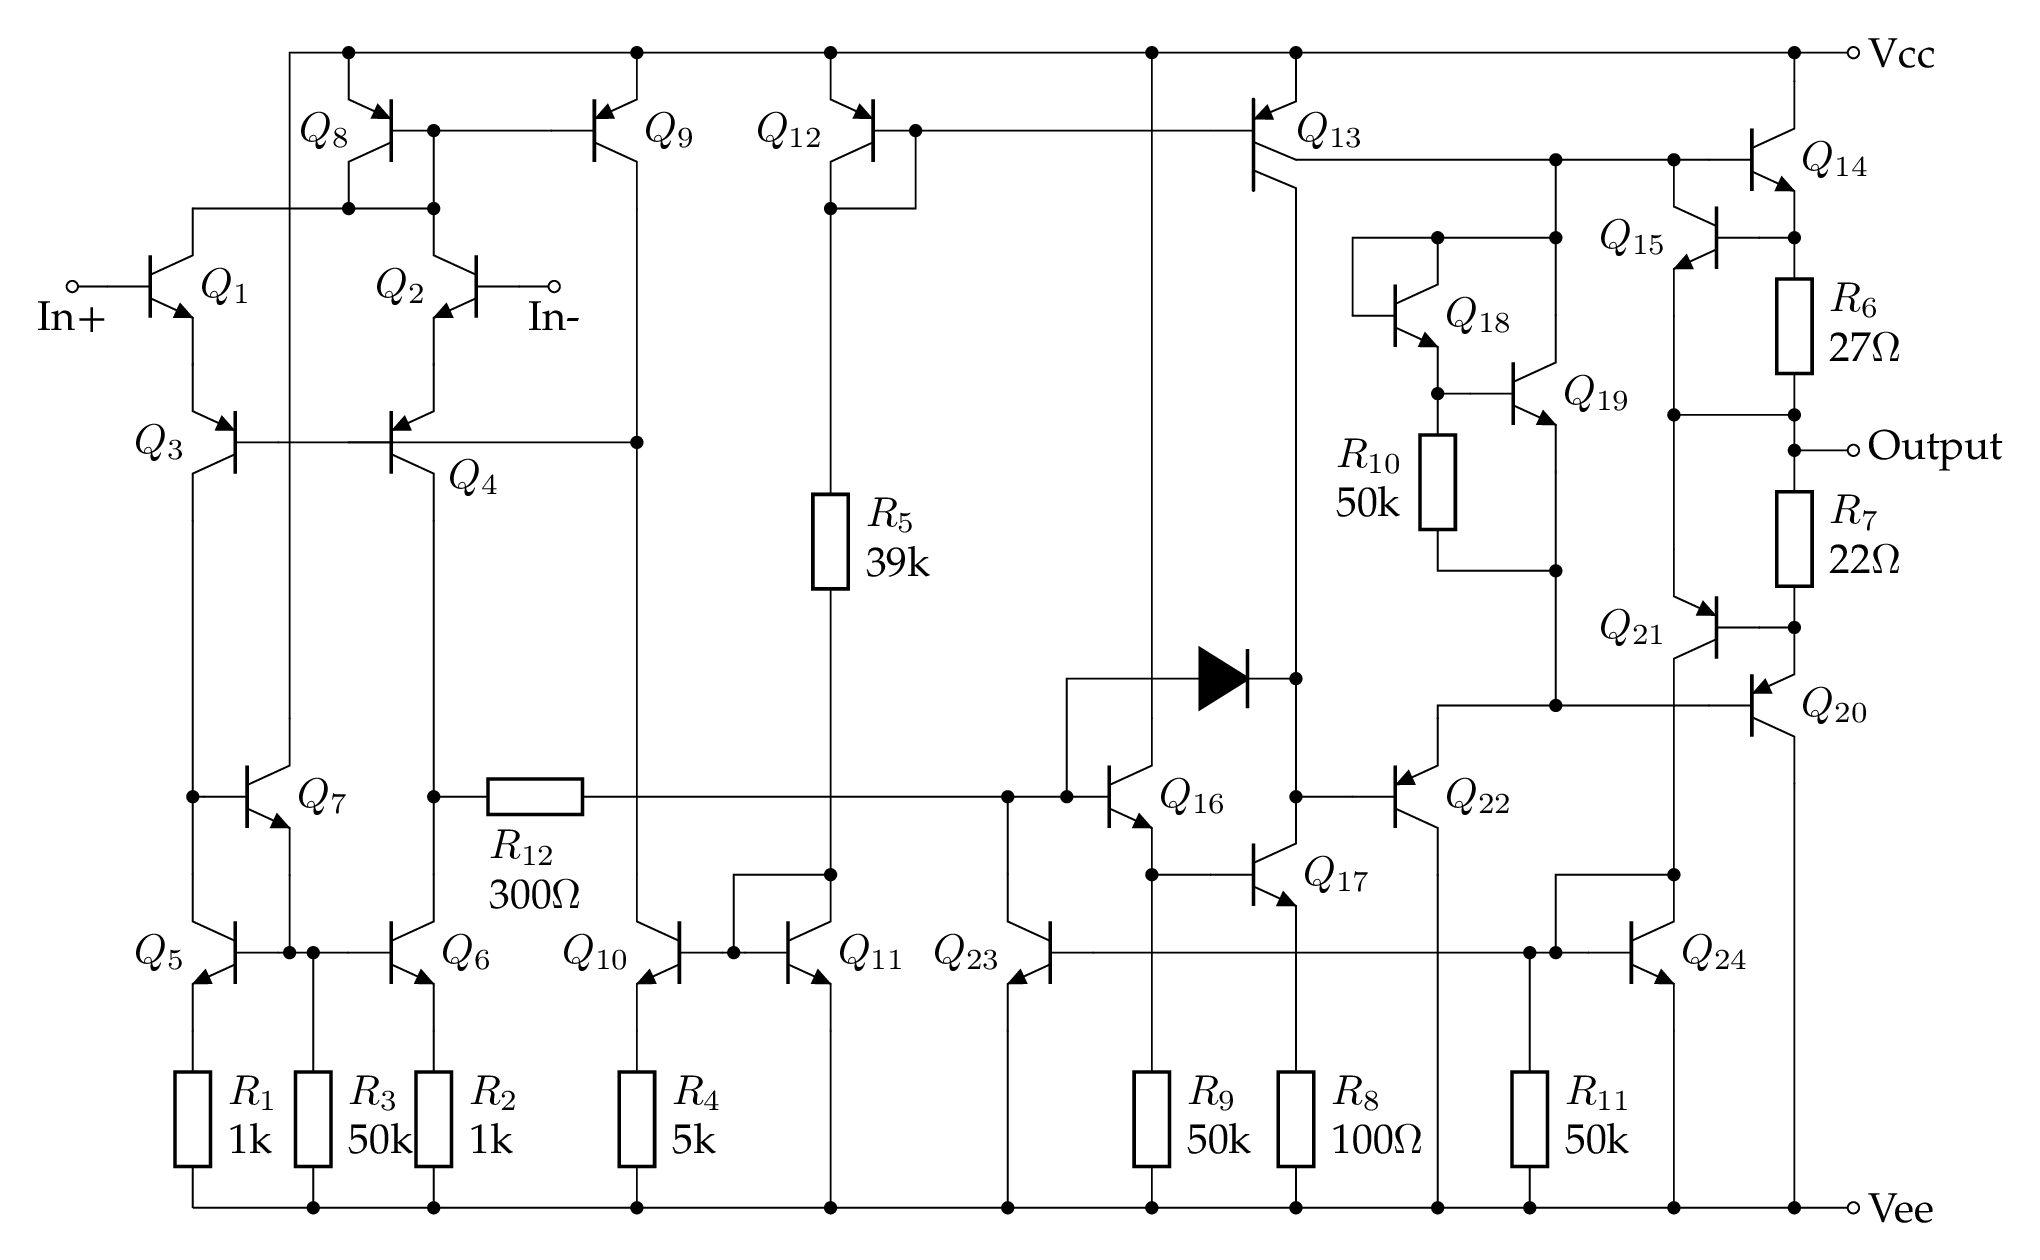
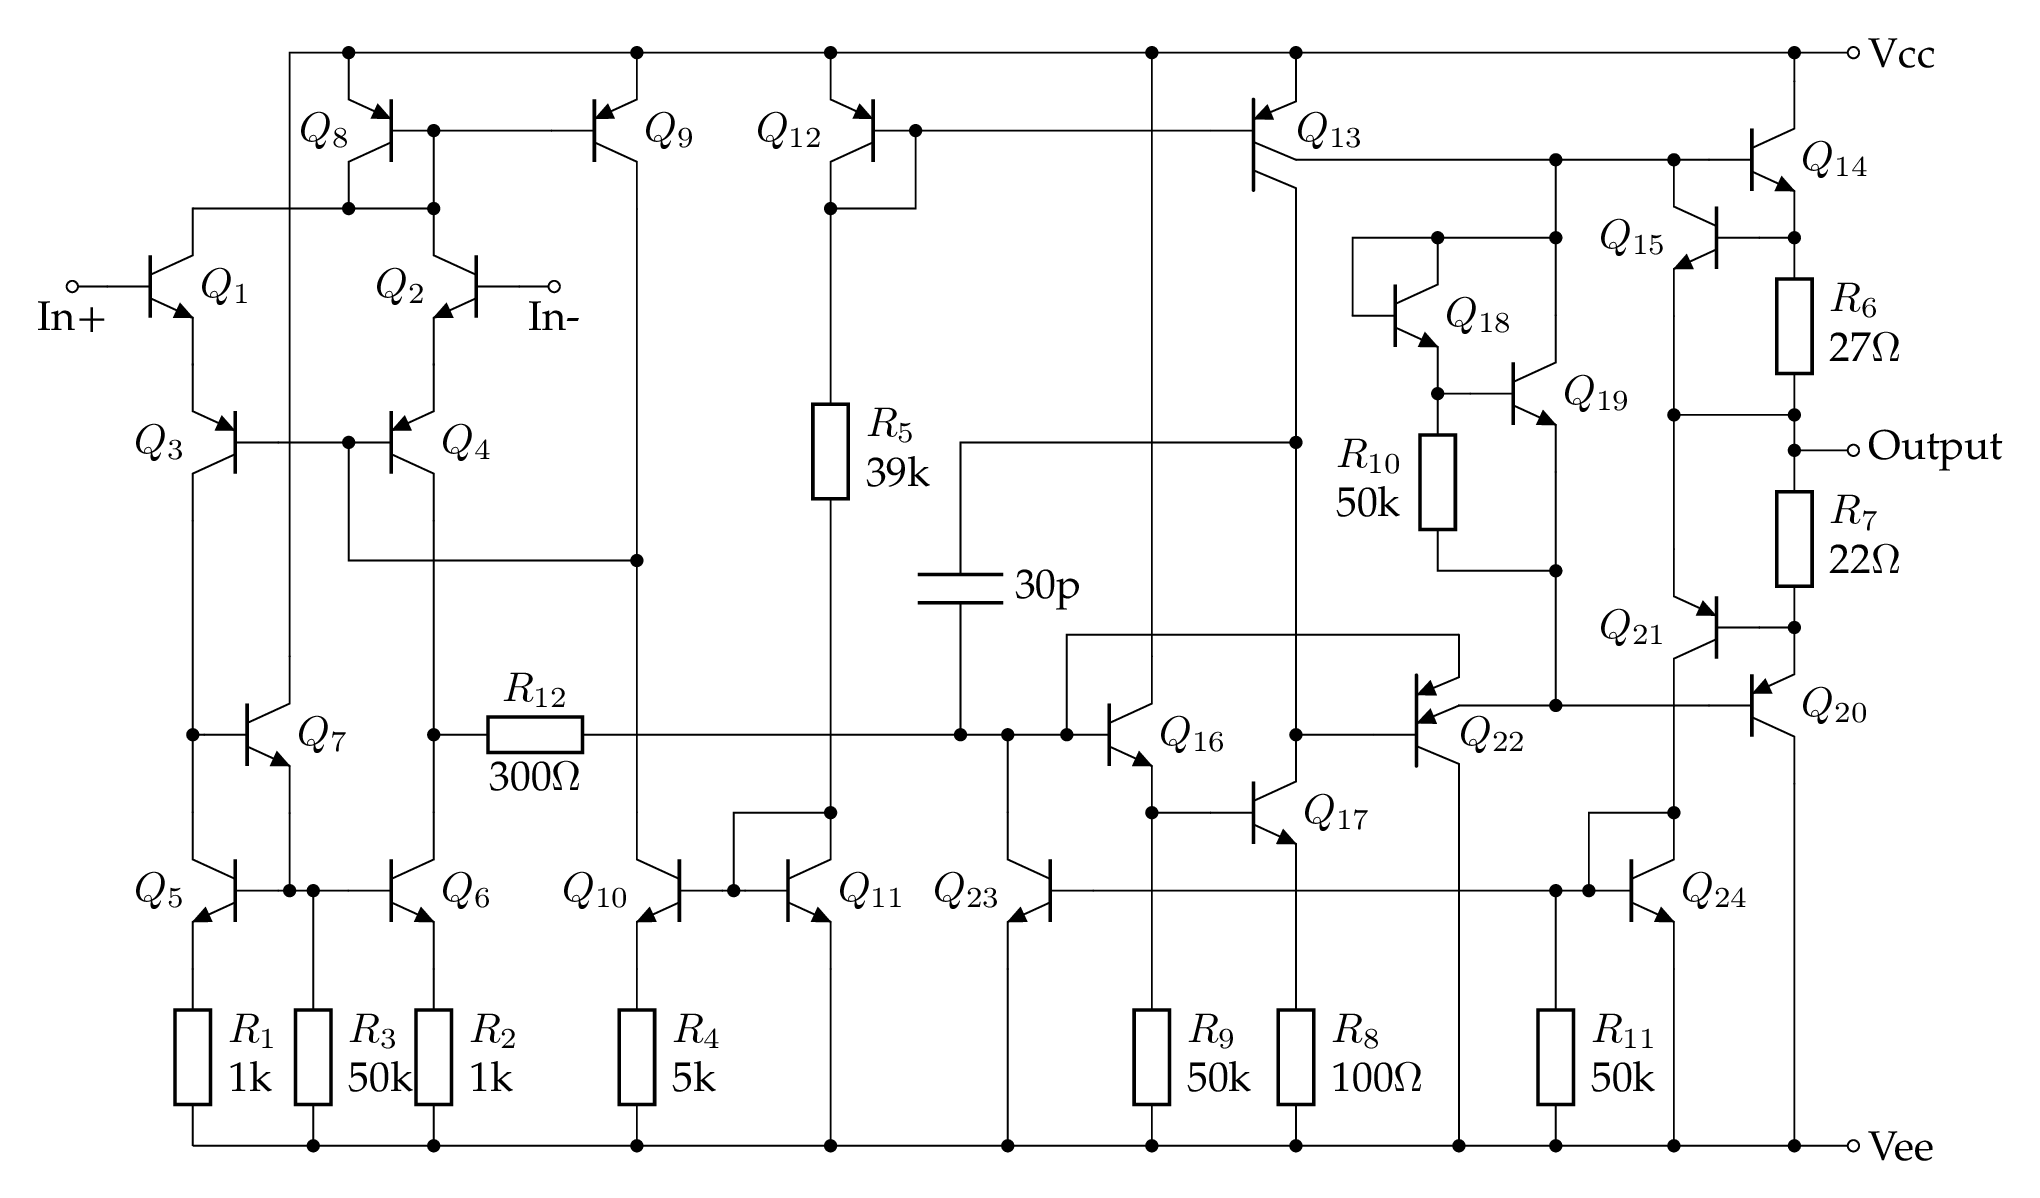
Update 741

diff --git a/docs/741.md b/docs/741.md
@@ -2,7 +2,7 @@
 
 µA741 是第二代集成运算放大器的代表，由 David Fullagar 在 1968 年为 Fairchild 公司设计。常见的兼容型号有 UA741, LM741, KA741 等等。以下简称 741。741 有[历史意义](741/SectionH.pdf)，也有学习的价值，[资料丰富](741/Sedra8e_x5.pdf)，但在 21 世纪的今天没有多少使用价值。
 
-MC1458 / MC1558 是 741 的双运放版本，电路特性是一样的。[1974 年上市](https://www.learningelectronics.net/VA3AVR/gadgets/741/741.html)的 RC4558 是第一款集成双运放，其性能指标和 µA741 相仿，[电路比 741 略微简单一些](741/rc4558.png)。同年晚些时候上市的 LM324 是集成四运放，连同其双运放版 LM358 至今是十分流行的器件，我怀疑 LM358 可能是目前销量最大的运放。
+MC1458 / MC1558 是 741 的双运放版本，电路特性是一样的。[1974 年上市](https://www.learningelectronics.net/VA3AVR/gadgets/741/741.html)的 [RC4558](/rc4558/) 是第一款集成双运放，其性能指标和 µA741 相仿，[电路比 741 略微简单一些](741/rc4558.png)。同年晚些时候上市的 LM324 是集成四运放，连同其双运放版 LM358 至今是十分流行的器件，我怀疑 LM358 可能是目前销量最大的运放。
 
 Dave Fullagar and [history of µA741](741/ho18opamp.pdf)
 
@@ -16,10 +16,10 @@ Dave Fullagar and [history of µA741](741/ho18opamp.pdf)
 芯片的版图：
 
 * <https://www.righto.com/2015/10/inside-ubiquitous-741-op-amp-circuits.html> 分析的是金封的 AD741
-* <https://spectrum.ieee.org/chip-hall-of-fame-fairchild-semiconductor-a741-opamp> 是原始 Fairchild 的硅片，也见 <https://www.computerhistory.org/revolution/digital-logic/12/281/1478>
+* <https://spectrum.ieee.org/chip-hall-of-fame-fairchild-semiconductor-a741-opamp> 是原始 Fairchild 的硅片，也见 <https://www.computerhistory.org/revolution/digital-logic/12/281/1478>。
+* 我也试着逆向工程 https://x.com/bnu_chenshuo/status/1900702896628658225 ，其中面积最大的发亮的区域是 30pF 的补偿电容，R5 (39k)的面积也很大。
 * <https://www.tinytransistors.net/2020/11/03/the-741-op-amp/> 列出了多个厂家的 die。
 
-其中面积最大的发亮的区域是 30pF 的补偿电容。
 
 讲解各种版本的 741 内部电路的书籍，我知道的有：
 
@@ -39,13 +39,13 @@ Dave Fullagar and [history of µA741](741/ho18opamp.pdf)
 
 为了简化，两个调零的引脚没有画出来。
 
-20T 版（Wikipedia 以此为例介绍[运算放大器](https://en.wikipedia.org/wiki/Operational_amplifier#Internal_circuitry_of_741-type_op_amp)），重绘自 Fairchild [1970 年数据手册](741/fairchild1970.pdf)：
+20T 版（Wikipedia 以此为例介绍[运算放大器](https://en.wikipedia.org/wiki/Operational_amplifier#Internal_circuitry_of_741-type_op_amp)），取自 Fairchild [1970 年数据手册](741/fairchild1970.pdf)：
 
 ![](741/lm741-20t.png)
 
 上图中电阻编号跳过了 R6，三极管跳过了 Q19 和 Q21。所以虽说三极管最大编号是 Q22，其实电路图中一共只有 20 个三极管。这可能说明电路几经修改才呈现现在的样子。
 
-更常见的 24T 版，重绘自 Fairchild [1987 年数据手册](741/fairchild1987.pdf)：
+更常见的 24T 版，取自 Fairchild [1987 年数据手册](741/fairchild1987.pdf)：
 
 ![](741/lm741-24t-ds.png)
 
@@ -159,11 +159,11 @@ Dave Fullagar 1969 年离开 Fairchild 加盟 Intersil，所以我猜测 24T 版
 
 以下讨论 24T 版。
 
-为了便于分析，现将 24T 版电路图重绘于下，暂时略去补偿电容：
+为了便于分析，现将 24T 版电路图重绘于下：
 
 ![](741/lm741-24t.png)
 
-上图把 Q22 画成普通 PNP 管，把它的第二发射极画成一个二极管。Q24 画成镜像电流源常见的形式，R5 取 39k，和手册略有不同，但和 XL741 和 Sedra&Smith 书一致。
+上图将 Q24 与 R11 位置调换，Q23/Q24 画成镜像电流源常见的形式；R5 取 39k，和手册略有不同，但和 XL741 和 Sedra&Smith 书一致。
 
 **偏置和输入级**
 
@@ -241,4 +241,7 @@ Q13 是双集电极 PNP 管，它的两个集电极 A 和 B 的面积之比是 1
 24T 版的直流工作点仿真结果，处于关断状态的管子用虚线表示：
 
 ![](741/lm741-24t-op.png)
+
+上图把 Q22 画成普通 PNP 管，把它的第二发射极画成一个二极管；因其在正常状态下截止，故画成虚线。
+
 待续。。。
